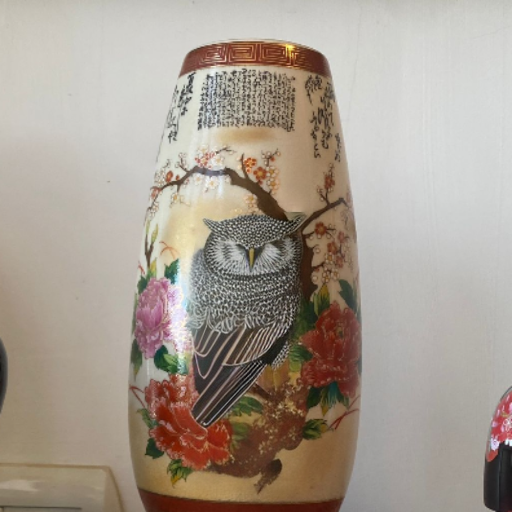
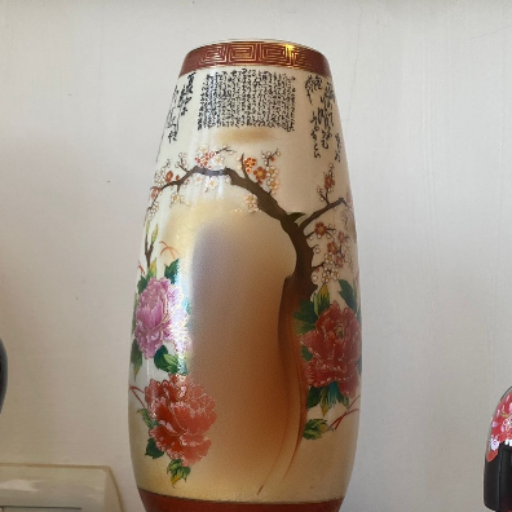
Annealed Mask Blending

Changed region(s): [[0.375, 0.4062, 0.5938, 0.9688]]

diff --git a/improved_pipeline_v5.py b/improved_pipeline_v5.py
@@ -1,0 +1,148 @@
+from vanilla_pipeline import InpaintPipeline
+import torch
+import numpy as np
+import cv2 as cv
+from PIL import Image
+import torchvision.transforms.functional as TF
+
+
+# 1. Strict Binary Dilation Mask (No blur here, we want strict latent boundaries!)
+def mask_op(image):
+    mask_np = np.array(image)
+    _, mask_np = cv.threshold(mask_np, 127, 255, cv.THRESH_BINARY)
+    
+    # Large dilation to give the AI a canvas to cast shadows
+    dilate_kernel = np.ones((15, 15), np.uint8)
+    mask_np = cv.dilate(mask_np, dilate_kernel, iterations=1)
+    
+    return Image.fromarray(mask_np).resize((64, 64), Image.LANCZOS)
+
+class ImprovedInpaintPipeline(InpaintPipeline):
+    def __init__(self):
+        super().__init__()
+        # Override the mask operation specifically for the improved pipeline
+        self.__class__.MASK_DEFAULT_PREPROC_OP = staticmethod(mask_op)
+
+    @torch.no_grad()
+    def denoise(self, text_embeddings, init_latents, mask_tensor, num_inference_steps=50):
+        self.scheduler.set_timesteps(num_inference_steps, device=self.device)
+        latents = torch.randn_like(init_latents)
+
+        # 2. Strict Vanilla Latent Blending
+        # This guarantees the background (onions) stays safe, while the AI draws the cupcake
+        for i, t in enumerate(self.scheduler.timesteps):
+            latent_model_input = torch.cat([latents] * 2)
+            latent_model_input = self.scheduler.scale_model_input(latent_model_input, t)
+
+            noise_pred = self.unet(latent_model_input, t, encoder_hidden_states=text_embeddings).sample
+
+            noise_pred_uncond, noise_pred_text = noise_pred.chunk(2)
+            noise_pred = noise_pred_uncond + 7.5 * (noise_pred_text - noise_pred_uncond)
+
+            latents = self.scheduler.step(noise_pred, t, latents).prev_sample
+
+            if i < len(self.scheduler.timesteps) - 1:
+                t_next = self.scheduler.timesteps[i + 1]
+            else:
+                t_next = torch.tensor([0], device=self.device)
+
+            # --- ANNEALED MASK LOGIC ---
+            # Calculate how much to blur based on how far along we are in the loop.
+            # It starts at sigma=5.0 (very blurry) and drops to sigma=0.1 (basically binary)
+            progress = i / len(self.scheduler.timesteps)
+            current_sigma = max(0.1, 5.0 * (1.0 - progress))
+            
+            # Apply the dynamic blur to the base mask tensor
+            # We use an odd kernel size (15) and our decaying sigma
+            dynamic_mask = TF.gaussian_blur(mask_tensor, kernel_size=15, sigma=current_sigma)
+
+            # Blend using the dynamic mask!
+            noise = torch.randn_like(init_latents)
+            noisy_init_latents = self.scheduler.add_noise(init_latents, noise, t_next)
+            latents = (noisy_init_latents * (1 - dynamic_mask)) + (latents * dynamic_mask)
+
+        return latents
+
+    @torch.no_grad()
+    def pipe(self, pipe_in):
+        # We need a 512x512 mask for math. Our mask_op downscaled it to 64x64, so we scale it back up purely for finding the bounding box.
+        mask_64 = pipe_in.mask_image
+        mask_512 = mask_64.resize((512, 512), Image.NEAREST)
+        mask_cv = np.array(mask_512)
+        
+        # ==========================================
+        # 1. SMART CROP: Find the Bounding Box
+        # ==========================================
+        y_indices, x_indices = np.where(mask_cv > 0)
+        if len(y_indices) > 0:
+            x_min, x_max = np.min(x_indices), np.max(x_indices)
+            y_min, y_max = np.min(y_indices), np.max(y_indices)
+            
+            mask_w = x_max - x_min
+            mask_h = y_max - y_min
+            
+            # Create a square crop with 50% padding around the mask so the AI has context
+            side = int(max(mask_w, mask_h) * 1.5)
+            side = max(side, 128)  # Don't crop too small
+            side = min(side, 512)  # Don't crop bigger than the image
+            
+            # Calculate the top-left corner of the crop
+            cx, cy = (x_min + x_max) // 2, (y_min + y_max) // 2
+            x1 = max(0, cx - side // 2)
+            y1 = max(0, cy - side // 2)
+            
+            # Keep it inside the image bounds
+            if x1 + side > 512: x1 = 512 - side
+            if y1 + side > 512: y1 = 512 - side
+        else:
+            x1, y1, side = 0, 0, 512 # Fallback if mask is empty
+            
+        # ==========================================
+        # 2. ZOOM IN: Prepare the cropped inputs
+        # ==========================================
+        crop_box = (x1, y1, x1 + side, y1 + side)
+        cropped_init = pipe_in.init_image.crop(crop_box).resize((512, 512), Image.LANCZOS)
+        cropped_mask = mask_512.crop(crop_box).resize((64, 64), Image.NEAREST)
+        
+        # Manually encode these zoomed-in crops to latents
+        image_np = np.array(cropped_init).astype(np.float32) / 127.5 - 1.0
+        image_tensor = torch.from_numpy(image_np).permute(2, 0, 1).unsqueeze(0).to(self.device)
+        init_latents = self.SD_SCALE_FACTOR * self.vae.encode(image_tensor).latent_dist.sample()
+        
+        mask_np = np.array(cropped_mask).astype(np.float32) / 255.0
+        mask_tensor = torch.from_numpy(mask_np).unsqueeze(0).unsqueeze(0).to(self.device)
+
+        # ==========================================
+        # 3. GENERATE: Run the AI on the zoomed-in space!
+        # ==========================================
+        text_embeddings = self.encode_prompt(pipe_in.prompt, self.text_encoder, self.tokenizer)
+        latents = self.denoise(text_embeddings, init_latents, mask_tensor)
+        ai_generated_crop = self.decode_latents(latents)
+
+        # ==========================================
+        # 4. RESTORE: Shrink and paste it back perfectly
+        # ==========================================
+        # Shrink the generated object back down to its actual tiny size
+        ai_generated_crop_restored = ai_generated_crop.resize((side, side), Image.LANCZOS)
+        
+        # Paste it exactly where it belongs on the original background
+        full_ai_image = pipe_in.init_image.copy()
+        full_ai_image.paste(ai_generated_crop_restored, (x1, y1))
+
+        # ==========================================
+        # 5. POISSON BLEND: Fix the lighting seams
+        # ==========================================
+        src = np.array(full_ai_image)
+        dst = np.array(pipe_in.init_image)
+        
+        if len(mask_cv.shape) == 2:
+            mask_cv = cv.cvtColor(mask_cv, cv.COLOR_GRAY2RGB)
+            
+        x, y, w, h = cv.boundingRect(mask_cv[:, :, 0])
+        if w == 0 or h == 0:
+            return full_ai_image
+            
+        center = (x + w // 2, y + h // 2)
+        blended_np = cv.seamlessClone(src, dst, mask_cv, center, cv.NORMAL_CLONE)
+        
+        return Image.fromarray(blended_np)
